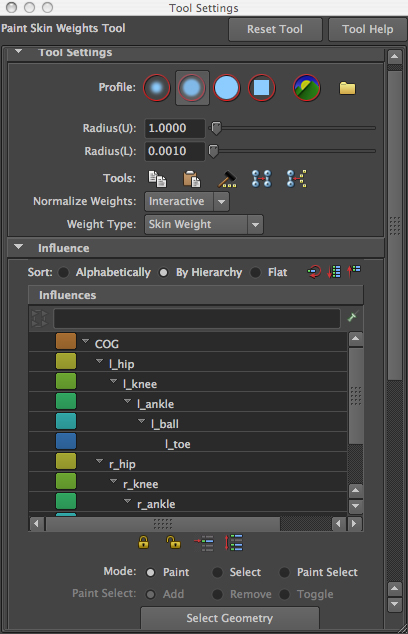
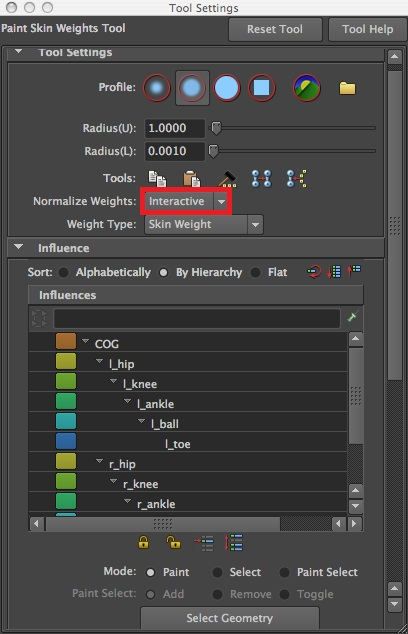
Updated character animation lab.

diff --git a/ucbugg/chapters/character-animation.md b/ucbugg/chapters/character-animation.md
@@ -18,7 +18,7 @@ We'll be working with several of the 12 basic principles of animation in this la
 
 Make sure you are in the 'Animation' Menu.
 
-**First, set your playback speed to 24 fps** (frames per second). You can do this by clicking on the preferences icon in the bottom left hand corner. 
+**First, set your playback speed to 24 fps** (frames per second). You can do this by clicking on the preferences icon in the bottom right hand corner. 
 
 ![Maya Image](/images/character-animation/max_001.jpg)
 
@@ -34,7 +34,16 @@ To animate a jump, we need to be able to move to move several parts of the body,
 
 ![Maya Image](/images/character-animation/max_003.jpg)
 
-To enable the bloke's IK hand control, we must select an option for "Arm Left IKFK," and "Arm Right IKFK." Make sure FK IK is set to 1 (not 0). Notice that the controllers on the arms have changed for the Max rig. If you select the purple pin sticking out from the wrist, you will notice that the translate and rotate tools are enabled.
+To enable Max's IK hand control, we must select an option for "Arm Left IKFK," and "Arm Right IKFK." Make sure FK IK is set to 1 (not 0). Notice that the controllers on the arms have changed for the Max rig. If you select the purple pin sticking out from the wrist, you will notice that the translate and rotate tools are enabled.
+
+But first, a quick refresher on FK vs. IK and what that means to an animator (since you already learned a bit about this during rigging).
+
+FK stands for "forward kinematics" and means that the position of the hand (or foot) is dictated by all the joints that precede it. Think about how your shoulder works, first your shoulder joint rotates, then your elbow, then wrist. You can't move your hand without moving all the joints in your arm first. With FK, if you move your character's body, the arm and hand will follow along as well. 
+
+This mode is useful for things like gesturing or if your hands are part of secondary motion in a walk cycle or something like that. But in certain situations it's too tedious to keep the hands or feet FK. 
+
+That's where IK comes into play. IK, or inverse kinematics, is the opposite of FK. The hand is positioned separately from the rest of the body and a controller is set for the elbow joint so that you can angle the arm how you want. Think of it like the hand is a separate object that's just tethered to the rest of the body. In IK, when you move the body, the hand stays where it is, so IK is great for things like pushing or pulling, since you don't lose the position of the hand when animating the body.
+
 
 ![Maya Image](/images/character-animation/max_004.jpg)
 
@@ -51,7 +60,7 @@ In this diagram, the arrows point to the controllers we'll be working with. So, 
 
 ![Maya Image](/images/character-animation/max_006.jpg)
 
-Once you have the pose you want, be sure to key all the parts you expect to be moving. You can do this by selecting your controllers, then clicking on frame 1 and pressing 's' on your keyboard. **The keyed frame will be represented by a small vertical red line in the time slider.** Now the rig will always be in this position at frame 1. Now doesn't that look cool?
+Once you have the pose you want, key all the parts you expect to be moving. You can do this by selecting your controllers, then clicking on frame 1 and pressing 's' on your keyboard. **The keyed frame will be represented by a small vertical red line in the time slider.** Now the rig will always be in this position at frame 1. Now doesn't that look cool?
 
 Before we move on any further, let's think about how this character is going to move. This pose implies forward motion, and it will require some time to gather energy to make a leap forward. What would that look like? When in doubt, think ARCS. He'll jump in an arc of course.
 
@@ -67,11 +76,21 @@ Now that our arc is made, we can use it as a reference of how our character shou
 
 Now, set your frame to 18. (The bottom number that pops up in the small highlighted black strip lets you know the exact frame you're on.) Now set your next pose. The best way to start is moving the main rectangular hip controller to where you want it, then having the arms and legs follow after.
 
+Remember how we set out frames per second to 24 when we started the lab? That means that one second on the screen equals 24 frames of animation (duh). So, since in our little scene here, we have Max jumping, we are going to set the height of his jump at frame 18, and he is going to land on frame 33. This means his whole jump will take about a second and half. It's good to think about timing early on in animation, because along with posing, timing is pivotal in creating a good animated scene.
+
 ![Maya Image](/images/character-animation/max_009.jpg)
 
 Set your key frame by pressing S. You might notice that the attributes in the channel box become pink. This indicates that there have been key frames set on them.
 
-If you press play on playblast, you'll notice that our character crewdly jumps into the air. Let's put a temporary fix on that. Select the controllers that you've keyed. Go into the graph editor.
+If you press play on the timeline, you'll notice that our character crudely jumps into the air. Let's put a temporary fix on that. Select the controllers that you've keyed. Go into the graph editor.
+
+Let's have a quick overview of the basics of using the graph editor! 
+
+Selecting a controller on your rig will automatically display the curves for all of its attributes (translation, rotation, and any special values that controller may have). You can select individual attributes in the left panel and you can shift+select several in a row or you can command+select multiple attributes not in a row. Now, about getting around the actual graph. 
+
+It's somewhat similar to the perspective view you're used to, since scrolling the F key still frames what ever you have selected, the mouse wheel still zooms in and out, command +right click still zooms in and out,  and using command + middle mouse still pans around. But, there are a couple cools things you can do when viewing the graph editor in addition! For example, using shift+ command + right mouse button and dragging horizontally scales the graph in only that direction (expands/contracts the frame range but not the value range) and dragging vertically scales the graph vertically (expands/contracts the value range and not the frame range). This is especially helpful when tweaking tangents in the graph that are close in value, since it allows for very fine adjustments and easy navigation. 
+
+Also, using shift + the middle mouse button will constrain the movement horizontally or vertically depending on which way you move first. This is helpful when you want to change the value of a key without accidentally moving the key to a different frame, and vice versa). Additionally the move (W) and scale (R) tools still work in the graph editor and can be used to tweak tangents. If your cursor turns into a little circle when you are trying to edit, that just means that you have the select tool (Q) active and need to switch to the move or scale tool.
 
 ![Maya Image](/images/character-animation/max_015.jpg)
 
@@ -79,15 +98,15 @@ Now select the curve points and change them to step tangents.
 
 ![Maya Image](/images/character-animation/max_016.jpg)
 
-Now instead of a smooth animation, we have the character jumping from one pose to another, like blocks of poses... Hence the name, blocking. Please do this to your curves after setting every keyframe.
- 
+Now instead of a smooth animation, we have Max changing between the poses over a single frame because our curves are now stepped (notice in the graph editor how the curves now resemble steps, hence the name). This type of curve is common in blocking (the first stage of animation) so that an animator can concentrate solely on the readability of his or her poses, which are of the utmost if the audience is to understand what's going on. This way, the animator can just concentrate on getting the storytelling poses down perfect (sometimes called the "golden poses") before he or she has to worry about making the stuff in between look good. Luckily, you won't have to select all of your curves and change them to stepped after every key you set, you can instead go into your animation preferences (remember where you changed your fps earlier?) and click on "animation" in the sidebar. Change your Default Out Tangent to "Stepped". Now, all the keyframes you set from now on will be stepped, so you can continue blocking your scene without having to worry about constantly changing the curves. (I would recommend changing this setting before you actually start animating just to make things easier and allow blocking to go as smoothly as possible). 
+
 Now, set your frame to 33. Again, use the translate and rotate tools to set your controllers where you want
 
 ![Maya Image](/images/character-animation/max_010.jpg)
 
 Set your key frame by pressing S. 
 
-<div class="note">You should always try to animate with as few transforms and key frames as possible in or to keep your scene clean. Be sure to The above two pictures are not good examples. You should only have 3 keyframes at this point: 1, 18, and 33</div>
+<div class="note">You should always try to animate with as few transforms and key frames as possible in or to keep your scene clean. The above two pictures are not good examples. You should only have 3 keyframes at this point: 1, 18, and 33</div>
 
 Go ahead and select all your controllers, go to the graph editor, and spline your three keyframes.
 
@@ -112,8 +131,89 @@ We land forward flat footed. Block it. (Frame 30):
 
 Once these poses are added, and spline the tangents in the curve editor. You'll see the animation is much better constrained and timed. One last touch to add is some recoil on the landing, much like you added anticipation for the hop on frames 1-12, we must add follow-through from frames 33 and onward. Keep blocking, splining, keyframing, and tweaking. Great animations are polished over and over again. Always make sure to save and keep it simple before polishing too much at once.
 
-If you're interested in animating a walk cycle, check out these link to understand the basic poses of a walk cycle: contact, recoil, passing, high-point, contact, and so on...
 
-<http://www.angryanimator.com/word/2008/11/01/animation-tutorial-2-walk-cycle/>
+A quick note about using Autokey! 
+
+I know we've told you in the past not to use, but that was just for simplicity's sake. It can be really useful if you know how to use it, especially in the blocking stage. Rather than pressing S after every single little tweak you make to a pose (this can get very tedious and will wear out your S key). The button for autokey is down in the righthand corner of you screen, just to the left of the preferences button. When you press it, it will turn red, meaning that Autokey is on. Now, whenever you move or rotate or change a an attribute on any of your rig's controllers, it will automatically be keyed, without you having to press S! 
+
+But note that Autokey only sets automatic keys on controls where you've manually set a key on it first, so you will still have to press S sometimes. Also note that Autokey, by default, only sets a key on attributes that are changed, not on the entire control (so if you translate y, only that will be keyed, translate x and z will be left unkeyed). As you can imagine, this still saves a lot of time and keystrokes, especially when you're blocking and just want to concentrate on getting a good solid pose in place rather than worrying about whether you pressed S or not. Note that it is VERY important to remember what frame you're on when you have Autokey active. Otherwise you can accidentally set keys in all kinds of crazy places that you didn't mean to. So as long as you pay attention, Autokey can be a great tool to use!
+
+
+
+## Extra for Experts
+
+Though we already went over the graph editor a bit, understanding how this part of Maya works is essential to any animator. Opening the graph editor for the first time and seeing a tangle of multi colored lines can seem scary and incomprehensible at first, but UCBUGG is here to help! __Spline curves__, or just __"splines"__, are the very nuts and bolts of what makes up the movement in your animation. The main idea with splines is that they represent changes in value over time (it's a simple graph setup really). The x axis is time (or in our case, the frame numbers which represent time) and the y axis is the value of whatever attribute we are looking at. So, as a curve raises and lowers, it's an increase and decrease in the value of the attribute, and a peak or a valley in a curve, understandably, represents a change in direction for that attribute. Feel free to play around with your rig in the graph editor while watching in the viewport to see how the two correlate and get a feel for using the graph editor. 
+
+
+Another important point to learn about in the graph editor is the different types of __tangents__ (the buttons for them are located at the top of the graph editor). We already learned about a couple in the lab, stepped and splined. But there are more! But first, a bit about tangent handles in general. If you've ever used a graphics programs like illustrator or Photoshop, this may seem familiar to you. The tangent handles that exist around every keyframe can be used to tweak your animation even more so that just setting and moving keys in the graph editor. Tangent handles allow to adjust the curves direction before and after the key they're around, and since the slopes of a curve can drastically effect your animation, it's important to know how to use tangent handles. Maya has several different types of tangents, but it's important to note that these are just starting points from which you will be tweaking. As we saw earlier when we changed our curves, there is no magic button that makes your animation look great (in fact, splining for the first time can be kind of depressing because of how weird it can look). But, tangent handles can fix that! By learning the different kinds of tangent types and what they will do to your curves, these little guys can really help your workflow, and in the end, your animation!
+
+First off, we have __spline tangents__, which you've already played with in your jumping animation. This type of tangent will make a smooth transition between all the keys, and are good for keys that are transitional (going to same direction on either side of the key). But with extremes, where the curves change direction, spline tangents can often overshoot the curve, which is difficult to control. 
+
+Next are __clamped tangents__, which are very similar to spline tangents in that they smoothly interpolate between keys, except that they will not overshoot any keys that are the same value or close to the same value.
+
+Next are __linear tangents__, which simply make a straight line from key to key, creating sharp angles and transitions. What's important to note here is that linear tangents give you even spacing, and so they are good for times when an object is traveling then impacts something else at full speed (remember your ball hitting the ground?)
+
+Next are __flat tangents__, which make a plateau at each key, most commonly used at extreme keys where the curve changes direction. Flat tangents are nice because they automatically put an ease-in and ease-out on each key, but this is not so great for transitional keys, as you can imagine. 
+
+Next are __stepped tangents__, which we already learned a bit about. These tangents do not interpolate at all, but hold still until the next key, where change in value happens over a single frame. Typically these keys are used for blocking in animation and are later changed to a different kind of tangent. The exception would be for things like an IK/FK switch or the visibility of something, where the change needs to happen over a single frame. 
+
+Finally, there are __plateau tangents__ which are similar to clamped in that they won't overshoot and they flatten out all extreme keys, but they additionally flatten out the starting and ending keys.
+
+So now that you know what all the different tangent types and do, don't be afraid to use them! And more importantly, don't be afraid to change them! They are meant as starting points to be helpful, and are not rules by any means. Speaking of changing them, let's learn a bit about exactly how to customize your tangents:
+
+First, there are two types of tangents: __weighted__ and __non-weighted__. You can use one or the other or both, it's all a matter of preference (really the whole animation workflow is a matter of preference, you'll probably never meet two animators who work the same way). But it's good to experiment to see what styles of workflow fit you best! 
+
+* Non-weighted tangents simply means that the handles will all be the same length and have the same amount of influence on a curve. When you select one end of a handle and move it around, the other end will move as well, since they act as one unified piece. You can, however, break the tangents. This will cause the handles to change colors, indicating that they are now two separate pieces that you can rotate independently and get any kind of curve you want. 
+* Weighted tangents, on the other hand have differing lengths that depend on the value difference between keys. So the larger the value difference, the longer the tangent will be and the more influence it will have on the curve. You can break and manipulate the handles just like you could with non-weighted tangents, but you can additionally change the length of the tangents and thus change how much they influence the curve, making any curve shape possible. 
+
+Also keep in mind that using tangent handles is just one way to approach animating. Some animators only set keys and never even touch their tangent handles. Others use handles to throughout their animation process. Many use a combination. In the end it's up to you but be sure to experiment and learn different approaches so that you can use whatever method is best for a particular task. 
+
+Last thing to note is some resources for people who want to learn more about animation! First off, some recommended reading material:
+
+_The Illusion of Life by Frank Thomas and Ollie Johnston_
+
+This is pretty much the bible for animators. Plus it has lots of interesting stories about the early days of Disney animation.
+
+
+_Timing for Animation by Harold Whitaker and John Halas (Updated by Tom Sito)_
+
+Another great book that focuses solely on timing. The second edition has updates for computer animators (though the principles laid out for 2D animation in the original definitely still apply to 3D)
+
+
+_The Animator's Survival Kit by Richard Williams_
+
+Another of animation's bibles. It is very dense and very thorough and a must have on an animator's bookshelf.
+
+
+_Character Animation Crash Course by Eric Goldberg_
+
+A great book on the basics of animation (which animators always need to review) and some intermediate skills. Focuses on 2D mostly, but still useful to any kind of animator. 
+
+
+_How to Cheat in Maya 2010 by Eric Luhta_
+
+A great book on animating specifically in Maya. Before diving into this book, you should have a solid understanding of the principles of animation (which can be found in the above books). That being said, this book a fantastic run down of Maya's animation features and can greatly improve and speed up your workflow. 
+
+
+And now some cool websites to check out!
+
+_The Animation Mentor Tips and Tricks Blog: http://www.animationtipsandtricks.com/_
+
+Tons of great tips from professional working animators that can clear up lots of questions any aspiring animators may have. They also have volumes one and two in ebook form for free if you want more in-depth advice.
+
+
+_The Eleven Second Club: http://www.11secondclub.com/_
+
+A monthly character animation competition where each month, the site releases eleven seconds of dialogue from a film or TV show, and any animator can animate to the dialogue and enter the competition. First place winners get an eCritique from a mentor from Animation Mentor! I highly recommend checking out the resources section of the site, which has links to free rigs for animators to use and tons of great tips on acting, animation workflow, and even on critiquing animation. 
+
+_http://www.angryanimator.com/word/2008/11/01/animation-tutorial-2-walk-cycle/_
+
+If you're interested in animating a walk cycle, check out this link to understand the basic poses of a walk cycle: contact, recoil, passing, high-point, contact, and so on...
+
+Happy animating!
+
+
+
 
 Created by: **By Michael Chen**
+Edited by: **Janel Drewis**

diff --git a/ucbugg/chapters/skinning.md b/ucbugg/chapters/skinning.md
@@ -38,6 +38,10 @@ We should first investigate the tool that allows us to smooth out the influences
 
 ![Paint Skin Weights option box](/images/skinning/ucbugg_skinning-4a.jpg)
 
+
+Be sure to set the "Normalize Weights" option to Interactive mode. When in interactive mode, the weight value entered is used exactly and the total weights on all influences adds up to 1. Post mode does not normalize the weight values so in using post mode you might end up with values greater than 1. 
+
+
 Influences range between 0 and 1, 0 influence appears black and 1 appears white. Any decimal between 0 and 1 will appear as a shade of grey accordingly.
 
 The "Toggle Hold Weights on Selected" will lock/unlock selected joints. Any locked/held joints influences cannot be changed if painted over. It is important to always have just 2 joints unlocked at any time, so you only work at one junction at a time. Otherwise, you might accidentally paint on the torso when you're working on the knee, and you'll spend your time trying to find lost weights.
